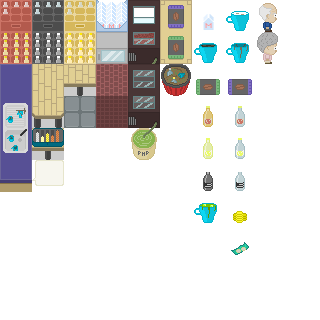
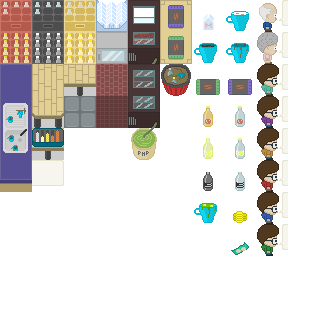
added new and better customers

diff --git a/Defold/customer.go b/Defold/customer.go
@@ -60,8 +60,8 @@ embedded_components {
   "blend_mode: BLEND_MODE_ALPHA\n"
   ""
   position {
-    x: 23.0
-    y: 5.0
+    x: 32.0
+    y: 0.0
     z: 0.0
   }
   rotation {

diff --git a/Defold/order_item.go b/Defold/order_item.go
@@ -57,7 +57,7 @@ embedded_components {
   ""
   position {
     x: 32.0
-    y: 50.0
+    y: 30.0
     z: 0.1
   }
   rotation {
